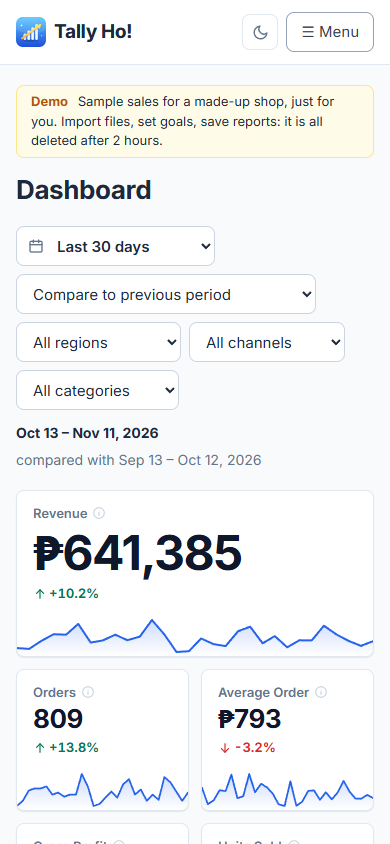
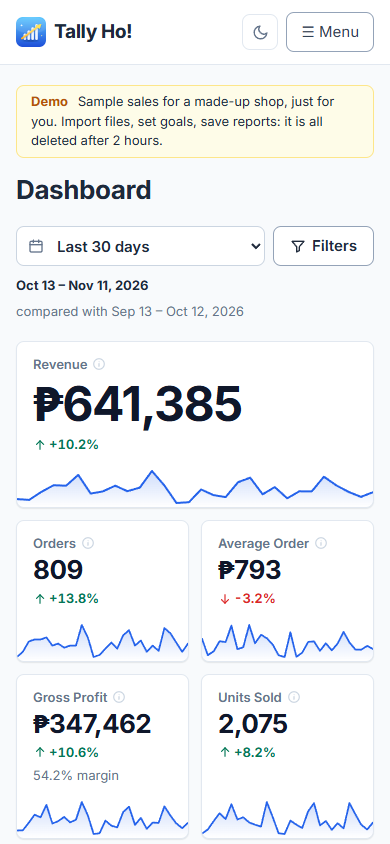
Phone view: fold the filters behind a Filters button
- On a phone, the dates and a Filters button share one row; the comparison and the
  region / channel / category menus fold into a panel under them (a <details>, so it opens
  without JavaScript too). The button shows how many filters are in use.
- On a computer nothing changes: the menus stay in the row.
- Newer browsers wrap a <details> body in its own box (::details-content): it spans the row
  when open and stays hidden when closed
- Phone screenshots retaken; README mentions the Filters button

diff --git a/tallyho/templates/_filters.html b/tallyho/templates/_filters.html
@@ -1,4 +1,5 @@
-{# One row above the charts: the dates first, then the comparison, then the filters.
+{# One row above the charts: the dates first, then the comparison, then the filters (on a phone,
+   behind a Filters button).
    It scopes everything below it. keep: other address parts to carry along (measure...).
    Without JavaScript the Apply button sends it; with it, each menu applies itself. #}
 {% from "_icons.html" import icon %}
@@ -18,25 +19,36 @@
       <span class="muted" aria-hidden="true">to</span>
       <label><span class="visually-hidden">To</span><input type="date" name="to" value="{{ sc.choice.period.last|iso }}"></label>
     </span>
-    {% if sc.choice.key != 'all' %}
-      <label class="range-field">
-        <span class="visually-hidden">Compare with</span>
-        <select name="compare" data-auto-submit>
-          {% for key, name in COMPARES %}<option value="{{ key }}"{% if key == sc.choice.compare_key %} selected{% endif %}>{{ 'Compare to ' ~ name|lower if key != 'none' else name }}</option>{% endfor %}
-        </select>
-      </label>
-    {% endif %}
-    {% for name, plural, everything in (('region', 'regions', 'All regions'), ('channel', 'channels', 'All channels'), ('category', 'categories', 'All categories')) %}
-      {% if name in show and sc.options[plural]|length > 1 %}
+    {# The comparison and the filters. On a phone they fold behind a Filters button (app.js closes the
+       panel there); on a computer they sit in the row. Without JavaScript the panel stays open. #}
+    {% set active = sc.chosen|length + (1 if sc.choice.compare_key not in ('previous',) and sc.choice.key != 'all' else 0) %}
+    {% set has_more = sc.choice.key != 'all' or show|select('in', ('region', 'channel', 'category'))|list|length > 0 %}
+    {% if has_more %}
+    <details class="more-filters" data-more-filters open>
+      <summary class="button button-quiet more-filters-button">{{ icon('filter', 16) }} Filters{% if active %} <span class="filter-count">{{ active }}</span>{% endif %}</summary>
+      <div class="more-filters-body">
+      {% if sc.choice.key != 'all' %}
         <label class="range-field">
-          <span class="visually-hidden">{{ name|capitalize }}</span>
-          <select name="{{ name }}" data-auto-submit>
-            <option value="">{{ everything }}</option>
-            {% for id_, label in sc.options[plural] %}<option value="{{ id_ }}"{% if sc.chosen.get(name, (none,))[0] == id_ %} selected{% endif %}>{{ label }}</option>{% endfor %}
+          <span class="visually-hidden">Compare with</span>
+          <select name="compare" data-auto-submit>
+            {% for key, name in COMPARES %}<option value="{{ key }}"{% if key == sc.choice.compare_key %} selected{% endif %}>{{ 'Compare to ' ~ name|lower if key != 'none' else name }}</option>{% endfor %}
           </select>
         </label>
       {% endif %}
-    {% endfor %}
+      {% for name, plural, everything in (('region', 'regions', 'All regions'), ('channel', 'channels', 'All channels'), ('category', 'categories', 'All categories')) %}
+        {% if name in show and sc.options[plural]|length > 1 %}
+          <label class="range-field">
+            <span class="visually-hidden">{{ name|capitalize }}</span>
+            <select name="{{ name }}" data-auto-submit>
+              <option value="">{{ everything }}</option>
+              {% for id_, label in sc.options[plural] %}<option value="{{ id_ }}"{% if sc.chosen.get(name, (none,))[0] == id_ %} selected{% endif %}>{{ label }}</option>{% endfor %}
+            </select>
+          </label>
+        {% endif %}
+      {% endfor %}
+      </div>
+    </details>
+    {% endif %}
     <button class="button button-quiet" type="submit" data-apply-button>Apply</button>
   </form>
   <p class="range-line">

diff --git a/tallyho/static/style.css b/tallyho/static/style.css
@@ -903,3 +903,36 @@ fieldset[disabled] .switch { cursor: not-allowed; opacity: 0.6; }
 .step.is-done .step-dot { border-color: var(--accent); color: var(--accent-text); }
 .step.is-done + .step::before { background: var(--accent); }
 .spacer-right { margin-right: auto; }
+
+/* ---------- The filters on a phone ---------- */
+
+/* On a computer the Filters panel is part of the row: no button, no box. */
+.more-filters, .more-filters-body, .more-filters::details-content { display: contents; }
+.more-filters > summary { display: none; }
+.filter-count {
+  display: inline-grid; place-items: center; min-width: 1.25rem; height: 1.25rem; padding: 0 0.3125rem;
+  border-radius: 999px; background: var(--accent); color: var(--on-accent); font-size: 0.75rem; font-weight: 700;
+}
+/* On a phone: the dates and a Filters button share one row; the rest folds into a panel under them. */
+@media (max-width: 39.99rem) {
+  .range-bar { display: grid; grid-template-columns: minmax(0, 1fr) auto; gap: 0.5rem; }
+  .range-bar .range-field { width: 100%; }
+  .range-bar .range-field select { width: 100%; min-width: 0; }
+  .custom-dates { grid-column: 1 / -1; }
+  .custom-dates label { flex: 1; }
+  .custom-dates input { width: 100%; }
+  .more-filters > summary { display: inline-flex; list-style: none; }
+  .more-filters > summary::-webkit-details-marker { display: none; }
+  .more-filters[open] > summary { border-color: var(--accent); color: var(--accent-text) !important; }
+  /* Newer browsers wrap a <details> body in a box of its own: that box takes the whole row too. */
+  .more-filters::details-content { display: block; grid-column: 1 / -1; }
+  /* Closed is closed (the computer's "display: contents" above would otherwise keep it showing). */
+  .more-filters:not([open])::details-content, .more-filters:not([open]) .more-filters-body { display: none; }
+  .more-filters-body {
+    display: grid; grid-column: 1 / -1; grid-template-columns: repeat(2, minmax(0, 1fr)); gap: 0.5rem;
+    padding: 0.75rem; background: var(--surface); border: 1px solid var(--border); border-radius: var(--radius);
+  }
+  .more-filters-body .range-field:first-child { grid-column: 1 / -1; }
+  [data-apply-button] { grid-column: 1 / -1; }
+  .range-line { margin-top: 0.625rem; font-size: 0.8125rem; }
+}

diff --git a/tallyho/static/app.js b/tallyho/static/app.js
@@ -192,3 +192,14 @@ if ("serviceWorker" in navigator) {
     });
   });
 }
+
+// The filters on a phone: folded behind the Filters button (it opens and closes the panel);
+// on a computer always open, as part of the row.
+function setUpMoreFilters() {
+  const phone = window.matchMedia("(max-width: 39.99rem)");
+  const panels = document.querySelectorAll("[data-more-filters]");
+  const fit = () => panels.forEach((panel) => (panel.open = !phone.matches));
+  fit();
+  phone.addEventListener("change", fit);
+}
+document.addEventListener("DOMContentLoaded", setUpMoreFilters);

diff --git a/tests/test_ui.py b/tests/test_ui.py
@@ -49,3 +49,13 @@ def test_dashboard_wording(app, owner):
     page = owner.get("/").get_data(as_text=True)
     assert "Compare to previous period" in page and "View as table" in page
     assert 'class="spark-area"' in page  # the sparklines' soft fill
+
+
+def test_on_a_phone_the_filters_fold_behind_a_button(app, owner):
+    post(owner, "/import/sample")
+    page = owner.get("/?region=1&compare=year").get_data(as_text=True)
+    assert "data-more-filters" in page and "more-filters-button" in page
+    assert '<span class="filter-count">2</span>' in page  # a region and a comparison that isn't the usual
+    plain = owner.get("/").get_data(as_text=True)
+    assert "filter-count" not in plain
+    assert ".more-filters::details-content" in CSS and "max-width: 39.99rem" in CSS

diff --git a/README.md b/README.md
@@ -29,7 +29,7 @@ It is a learning project. The skills are **SQL aggregation**, **performance** an
 - **Compare** with the period before, or with the same dates last year.
 - A **chart** of revenue, orders, profit, average order or customers, by day, week or month, with a **7-day average** and the earlier period behind it. Move the mouse (or the arrow keys) to read every day.
 - Sales by **category**, **region** and **channel**, and the **top products**.
-- **Filter** everything by region, channel or category. Every chart has **View as table**.
+- **Filter** everything by region, channel or category. On a phone, the comparison and the filters fold behind a **Filters** button (with a count of the ones in use), so the numbers come first. Every chart has **View as table**.
 
 **Look closer**
 
